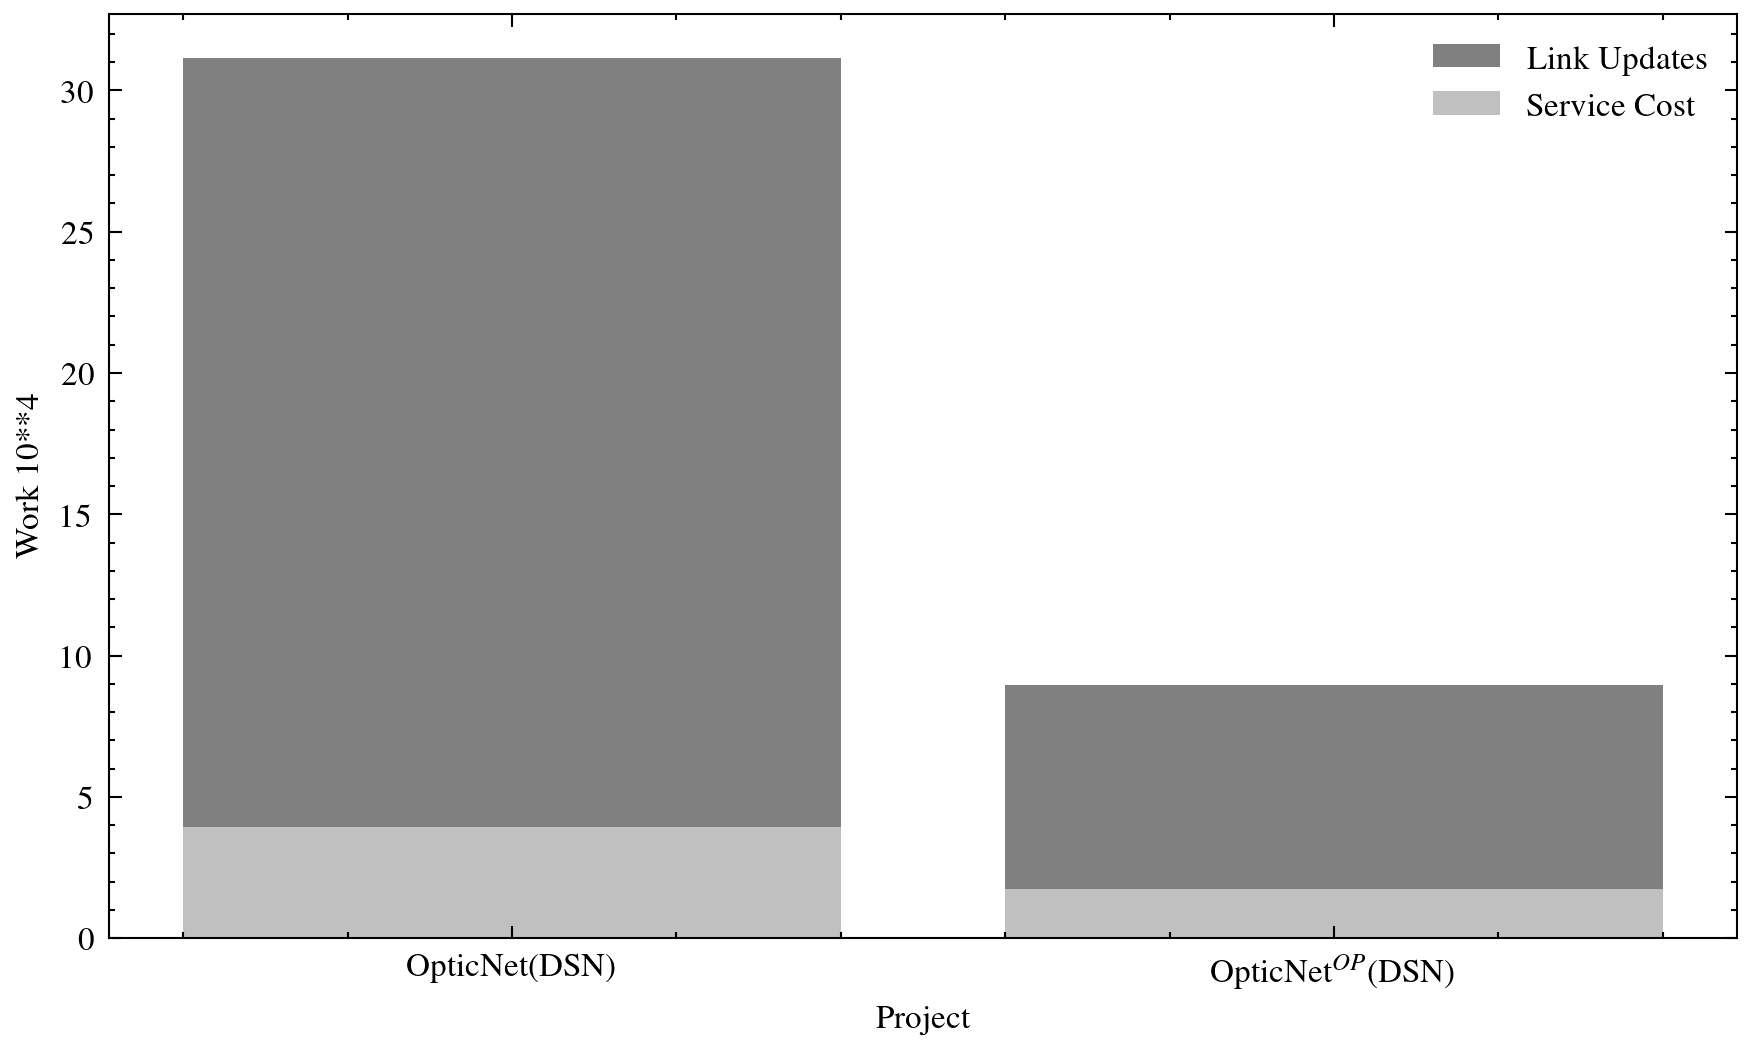
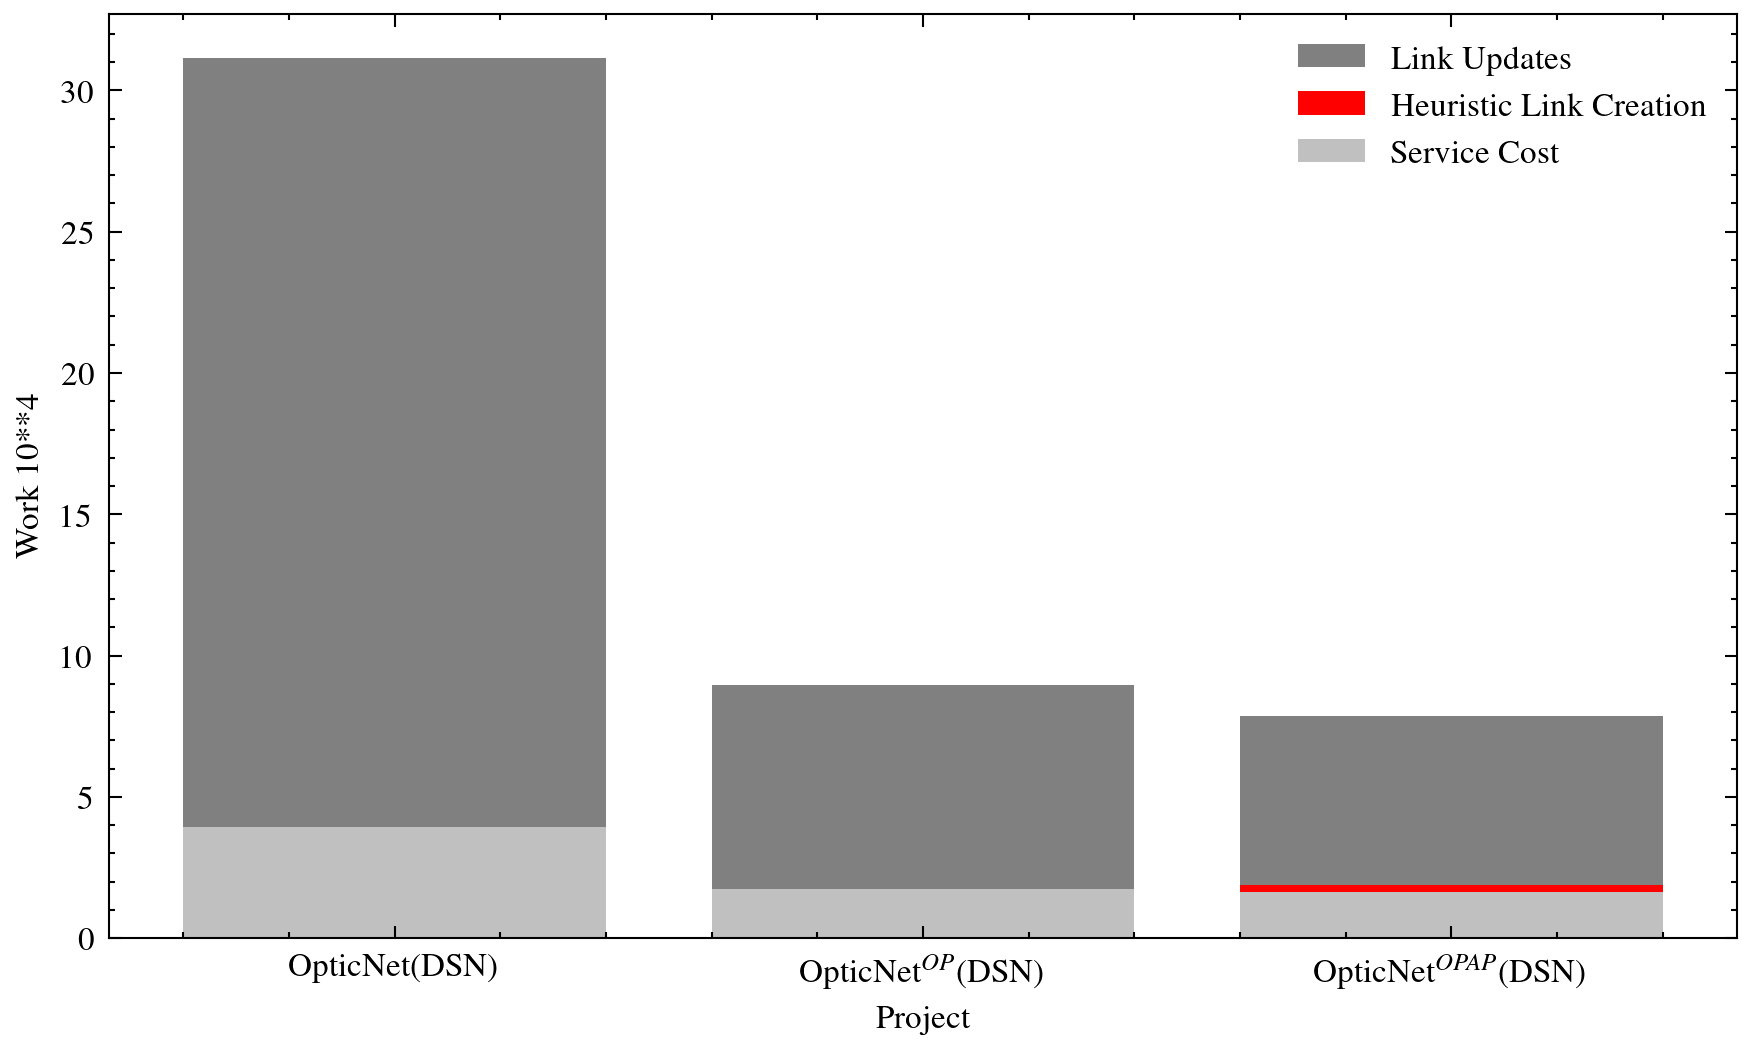
corrected plot for other projects in comparison

diff --git a/plotter/DataReader.py b/plotter/DataReader.py
@@ -57,7 +57,7 @@ class DataReader:
         elif self.project == "semiDisplayOpticNetHLAP":
             return Path(
                 Path(__file__).parent.parent /
-                f"../SemiDisplayOpticNet-AP/logs/output/{self.dataset}/{self.project}_{self.num_nodes}/{self.switch_size}/{self.mu}/"
+                f"../SemiDisplayOpticNet-AP/logs/output/{self.dataset}/semiDisplayOpticNet_{self.num_nodes}/{self.switch_size}/{self.mu}/"
             )
         elif self.project == "cbOptNet":
             return Path(
@@ -153,9 +153,10 @@ class DataReader:
         
         for sim_id in range(1, self.num_sims + 1):
             file_df = pd.read_csv(self.file_path / f"{sim_id}/operations.csv")
-
             total_routing[sim_id - 1] = file_df.loc[file_df.name=="message-routing", "sum"].item()
-            total_alterations[sim_id - 1] = file_df.loc[file_df.name=="link-alteration", "sum"].item()
+            #print(self.file_path / f"{sim_id}/operations.csv")
+            
+            total_alterations[sim_id - 1] = int(file_df.loc[file_df.name=="alteration", "sum"].item())
 
         total_work = total_routing + total_alterations
 
@@ -171,7 +172,9 @@ class DataReader:
             file_df = pd.read_csv(self.file_path / f"{sim_id}/operations.csv")
 
             total_routing[sim_id - 1] = file_df.loc[file_df.name=="message-routing", "sum"].item()
-            total_alterations[sim_id - 1] = file_df.loc[file_df.name=="link-alteration", "sum"].item()
+            #print(self.file_path / f"{sim_id}/operations.csv")
+            
+            total_alterations[sim_id - 1] = float(file_df.loc[file_df.name=="link-alteration", "sum"].item())
             total_heuristic_link[sim_id - 1] = file_df.loc[file_df.name=="heuristic-link-creation", "sum"].item()
             total_alterations[sim_id - 1] -= total_heuristic_link[sim_id - 1]
                         

diff --git a/scripts_win/normal.py b/scripts_win/normal.py
@@ -24,9 +24,9 @@ file_lock = threading.Lock()
 projects = [ "semiDisplayOpticNet" ]
 
 # parameters of simulation
-num_nodes = [ 128, 1024 ]
-std = [ 0.2, 0.8, 1.6, 3.2, 6.4 ]
-switch_sizes = [ 16, 32, 64, 128, 256, -1 ]
+num_nodes = [  1024 ]
+std = [ 0.2 ]
+switch_sizes = [ 128,256,2048 ]
 sequential = [ "false" ]
 mus = [ 4 ]
 

diff --git a/scripts_win/projector.py b/scripts_win/projector.py
@@ -25,9 +25,9 @@ projects = [ "semiDisplayOpticNet" ]
 # parameters of simulation
 num_nodes = [ 128 ]
 datasets = [ "tor" ]
-switch_sizes = [ 16,32,256 ]
+switch_sizes = [ 16,32,-1 ]
 mus = [ 4 ]
-sequential = [ "true", "false" ]
+sequential = [ "false" ]
 num_simulations = 30
 
 #number of threads to simulation

diff --git a/scripts_win/pfab.py b/scripts_win/pfab.py
@@ -25,8 +25,8 @@ projects = [ "semiDisplayOpticNet" ]
 # parameters of simulation
 num_nodes = [ 144 ]
 switch_sizes = [ 16,32,64,288 ]
-datasets = [ "trace_0_5", "trace_0_8"]
-sequential = [ "true", "false" ]
+datasets = [ "trace_0_5"]
+sequential = [ "false" ]
 mus = [ 4 ]
 
 #number of threads to simulation

diff --git a/plotter/plot_script.py b/plotter/plot_script.py
@@ -38,8 +38,8 @@ datasets = [
 ["bursty-0.4-1"], 
 ["facebookDS"], 
 ["hpcDS-exact_boxlib_cns_nospec_large"], 
-["normalDS-0.2","normalDS-0.8","normalDS-1.6","normalDS-3.2","normalDS-6.4"],
-["pfabDS-trace_0_5", "pfabDS-trace_0_8"],
+["normalDS-0.2"],
+["pfabDS-trace_0_5"],
 ["skewed-1-0.4"],
 ["tor"] 
 ]

diff --git a/scripts_win/facebook.py b/scripts_win/facebook.py
@@ -26,7 +26,7 @@ projects = [ "semiDisplayOpticNet" ]
 num_nodes = [ 367 ]
 datasets = [ "datasetC_pairs" ]
 switch_sizes = [ 16, 32, 92, 162, 734 ]
-sequential = [ "false", "true" ]
+sequential = [ "false" ]
 mus = [ 4 ]
 
 #number of threads to simulation

diff --git a/scripts_win/bursty.py b/scripts_win/bursty.py
@@ -25,7 +25,7 @@ projects = [ "semiDisplayOpticNet" ]
 # parameters of simulation
 num_nodes = [ 128 ]
 switch_sizes = [ 16, 32, 64, 128, -1 ]
-sequential = [ "false", "true" ]
+sequential = [ "false" ]
 mus = [ 4 ]
 num_simulations = 30
 

diff --git a/scripts_win/skewed.py b/scripts_win/skewed.py
@@ -25,7 +25,7 @@ projects = [ "semiDisplayOpticNet" ]
 # parameters of simulation
 num_nodes = [ 128 ]
 switch_sizes = [ 16,32,256 ]
-sequential = [ "true", "false" ]
+sequential = [ "false" ]
 mus = [ 4 ]
 num_simulations = 30
 
